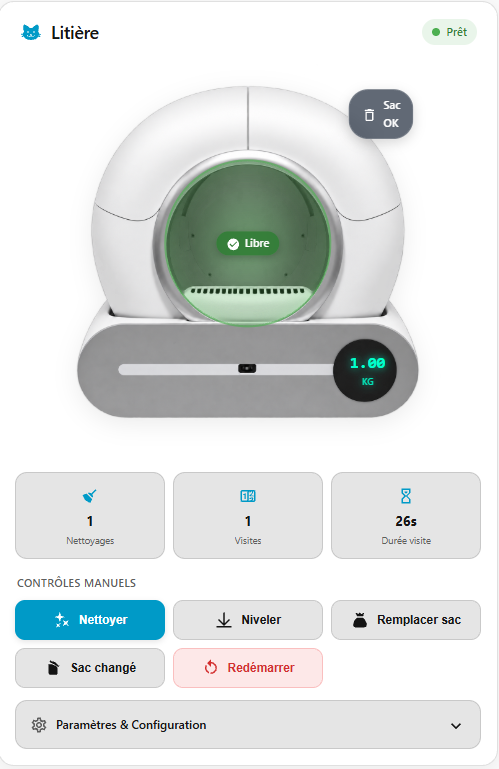
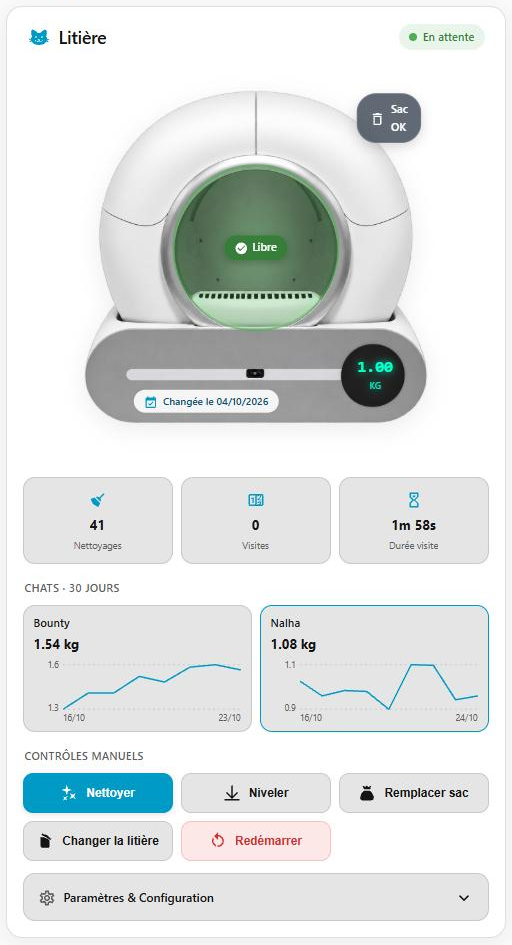
docs: refresh README features and replace the preview screenshot with the current card

diff --git a/README.md b/README.md
@@ -40,12 +40,17 @@ If you find this card helpful, consider buying me a coffee to support the develo
 
 - **Interactive Dynamic Visual**:
   - Embedded clean vector/image representation of the automatic litter box.
-  - **Entrance Halo & Indicator**: Illuminates in **Green** with pulsating glow when the cat is inside (`occupancy = on`) and in **Red** when clear/idle.
+  - **Entrance Halo & Indicator**: glows **green** when the litter box is free and **red** with a pulsing glow when a cat is inside (`occupancy = on`). It turns **grey** ("Litter box offline") when the status sensor is `unavailable`.
   - **Cat Weight Display**: Live weight value dynamically overlaid in the bottom circular dial.
   - **Waste Bin Status Alert**: Animated badge in the top right corner when the bag is full.
 - **Quick Statistics Overview**: Cleanings count, total visit counter, and duration of the last visit.
-- **Manual Control Action Buttons**: Clean, Level litter, Replace bag, Bag changed confirmation, and Restart device.
-- **Per-cat weight tracking**: set the number of cats and their names; the card groups the weigh-ins of the weight sensor into one group per cat (names are given from the lightest to the heaviest), or, when you set a reference weight for every cat (a decimal number with a dot, in the sensor's unit, for example `4.2`), assigns each weigh-in to the cat with the nearest reference. The references then adjust automatically as the cats' weight changes, and a weigh-in too far from every reference (a visitor) is ignored. The card shows each cat's recent weight with a graph over the period you choose (7 to 180 days, 30 by default), with its axes (weights and dates) that you can hide. The history is rebuilt from the sensor's recorded history and kept by the card. Cats with weights closer than 0.4 can be mixed up.
+- **Manual Control Action Buttons**: Clean, Level litter, Replace bag, Change litter ("Bag changed"), and Restart device.
+- **Status-aware effects**: the Clean, Level and Change litter buttons glow while the device is cleaning, leveling or emptying. When the bag is full, the status badge turns orange and blinks, and so does the Replace bag button. When the status is `unavailable`, the card shows the device as offline (grey halo, red status, no bag badge). Status values are recognised in English and in French (for example `cleaning` / `Nettoyage`, `smoothing` / `Lissage`, `emptying` / `Vidange`, `full` / `Plein`).
+- **Per-cat weight tracking** (set the number of cats and their names):
+  - Each weigh-in of the weight sensor is assigned to a cat: by grouping the weights (names go from the lightest to the heaviest), or, if you give a reference weight for every cat (a decimal number with a dot, in the sensor's unit, for example `4.2`), to the nearest reference.
+  - The references adjust automatically as the cats' weight changes, and a weigh-in too far from every reference (a visitor) is ignored. Cats whose weights are closer than 0.4 can be mixed up.
+  - Each cat gets its recent weight and a graph over the period you choose (7 to 180 days, 30 by default), with axes (weights and dates) that you can hide.
+  - The history is rebuilt from the sensor's recorded history and kept by the card.
 - **Last litter change date**: shown on the image and recorded by the card each time the "Bag changed" button is pressed (stored per Home Assistant user, with browser storage as fallback).
 - **Collapsible Settings & Configuration Accordion**:
   - Auto clean toggle (Switch)
@@ -180,12 +185,17 @@ cfg_unit: select.cat_litter_box_unit
 
 - **Rendu Visuel Interactif & Réactif** :
   - Silhouette intégrée de la machine automatique.
-  - **Aura & témoin d'entrée** : s'illumine en **Vert** pulsant lorsque le chat est présent (`occupation = on`) et en **Rouge** en veille.
+  - **Aura & témoin d'entrée** : s'illumine en **vert** quand le bac est libre et en **rouge** pulsant quand un chat est présent (`occupation = on`). Elle devient **grise** (« Litière hors ligne ») quand le capteur d'état est `unavailable`.
   - **Affichage du Poids du Chat** : valeur en temps réel intégrée directement dans le rond noir inférieur.
   - **Alerte Sac Plein** : badge dynamique et animé en haut à droite de l'image.
 - **Statistiques en un coup d'œil** : Nombre de nettoyages, nombre total de visites et durée du passage.
-- **Boutons de Contrôle Manuel** : Nettoyer, Niveler, Remplacement du sac, Changer la litière, Redémarrer.
-- **Suivi du poids par chat** : indiquez le nombre de chats et leurs noms ; la carte regroupe les pesées du capteur de poids en un groupe par chat (noms donnés du plus léger au plus lourd), ou, si vous indiquez un poids de référence pour chaque chat (nombre décimal avec un point, dans l'unité du capteur, par exemple `4.2`), attribue chaque pesée au chat dont la référence est la plus proche. Les références s'ajustent alors automatiquement avec l'évolution du poids des chats, et une pesée trop éloignée de toutes les références (un visiteur) est ignorée. La carte affiche le poids récent de chaque chat avec un graphique sur la période choisie (de 7 à 180 jours, 30 par défaut), avec ses axes (poids et dates) que vous pouvez masquer. L'historique est reconstruit à partir de l'historique enregistré du capteur et conservé par la carte. Des chats dont les poids sont à moins de 0,4 d'écart peuvent être confondus.
+- **Boutons de Contrôle Manuel** : Nettoyer, Niveler, Remplacer sac, Changer la litière, Redémarrer.
+- **Effets selon l'état** : les boutons Nettoyer, Niveler et Changer la litière s'illuminent pendant le nettoyage, le lissage ou la vidange. Quand le sac est plein, le badge d'état passe à l'orange et clignote, tout comme le bouton Remplacer sac. Quand l'état est `unavailable`, la carte affiche le bac comme hors ligne (aura grise, état en rouge, pas de badge de sac). Les états sont reconnus en anglais et en français (par exemple `cleaning` / `Nettoyage`, `smoothing` / `Lissage`, `emptying` / `Vidange`, `full` / `Plein`).
+- **Suivi du poids par chat** (indiquez le nombre de chats et leurs noms) :
+  - Chaque pesée du capteur de poids est attribuée à un chat : en regroupant les poids (noms donnés du plus léger au plus lourd), ou, si vous indiquez un poids de référence pour chaque chat (nombre décimal avec un point, dans l'unité du capteur, par exemple `4.2`), au chat dont la référence est la plus proche.
+  - Les références s'ajustent automatiquement avec l'évolution du poids des chats, et une pesée trop éloignée de toutes les références (un visiteur) est ignorée. Des chats dont les poids sont à moins de 0,4 d'écart peuvent être confondus.
+  - Chaque chat a son poids récent et un graphique sur la période choisie (de 7 à 180 jours, 30 par défaut), avec des axes (poids et dates) que vous pouvez masquer.
+  - L'historique est reconstruit à partir de l'historique enregistré du capteur et conservé par la carte.
 - **Date du dernier changement de litière** : affichée sur l'image et enregistrée par la carte à chaque appui sur « Changer la litière » (stockée par utilisateur Home Assistant, avec le navigateur en secours).
 - **Menu Déroulant Paramètres & Configuration** :
   - Nettoyage automatique (Interrupteur)
